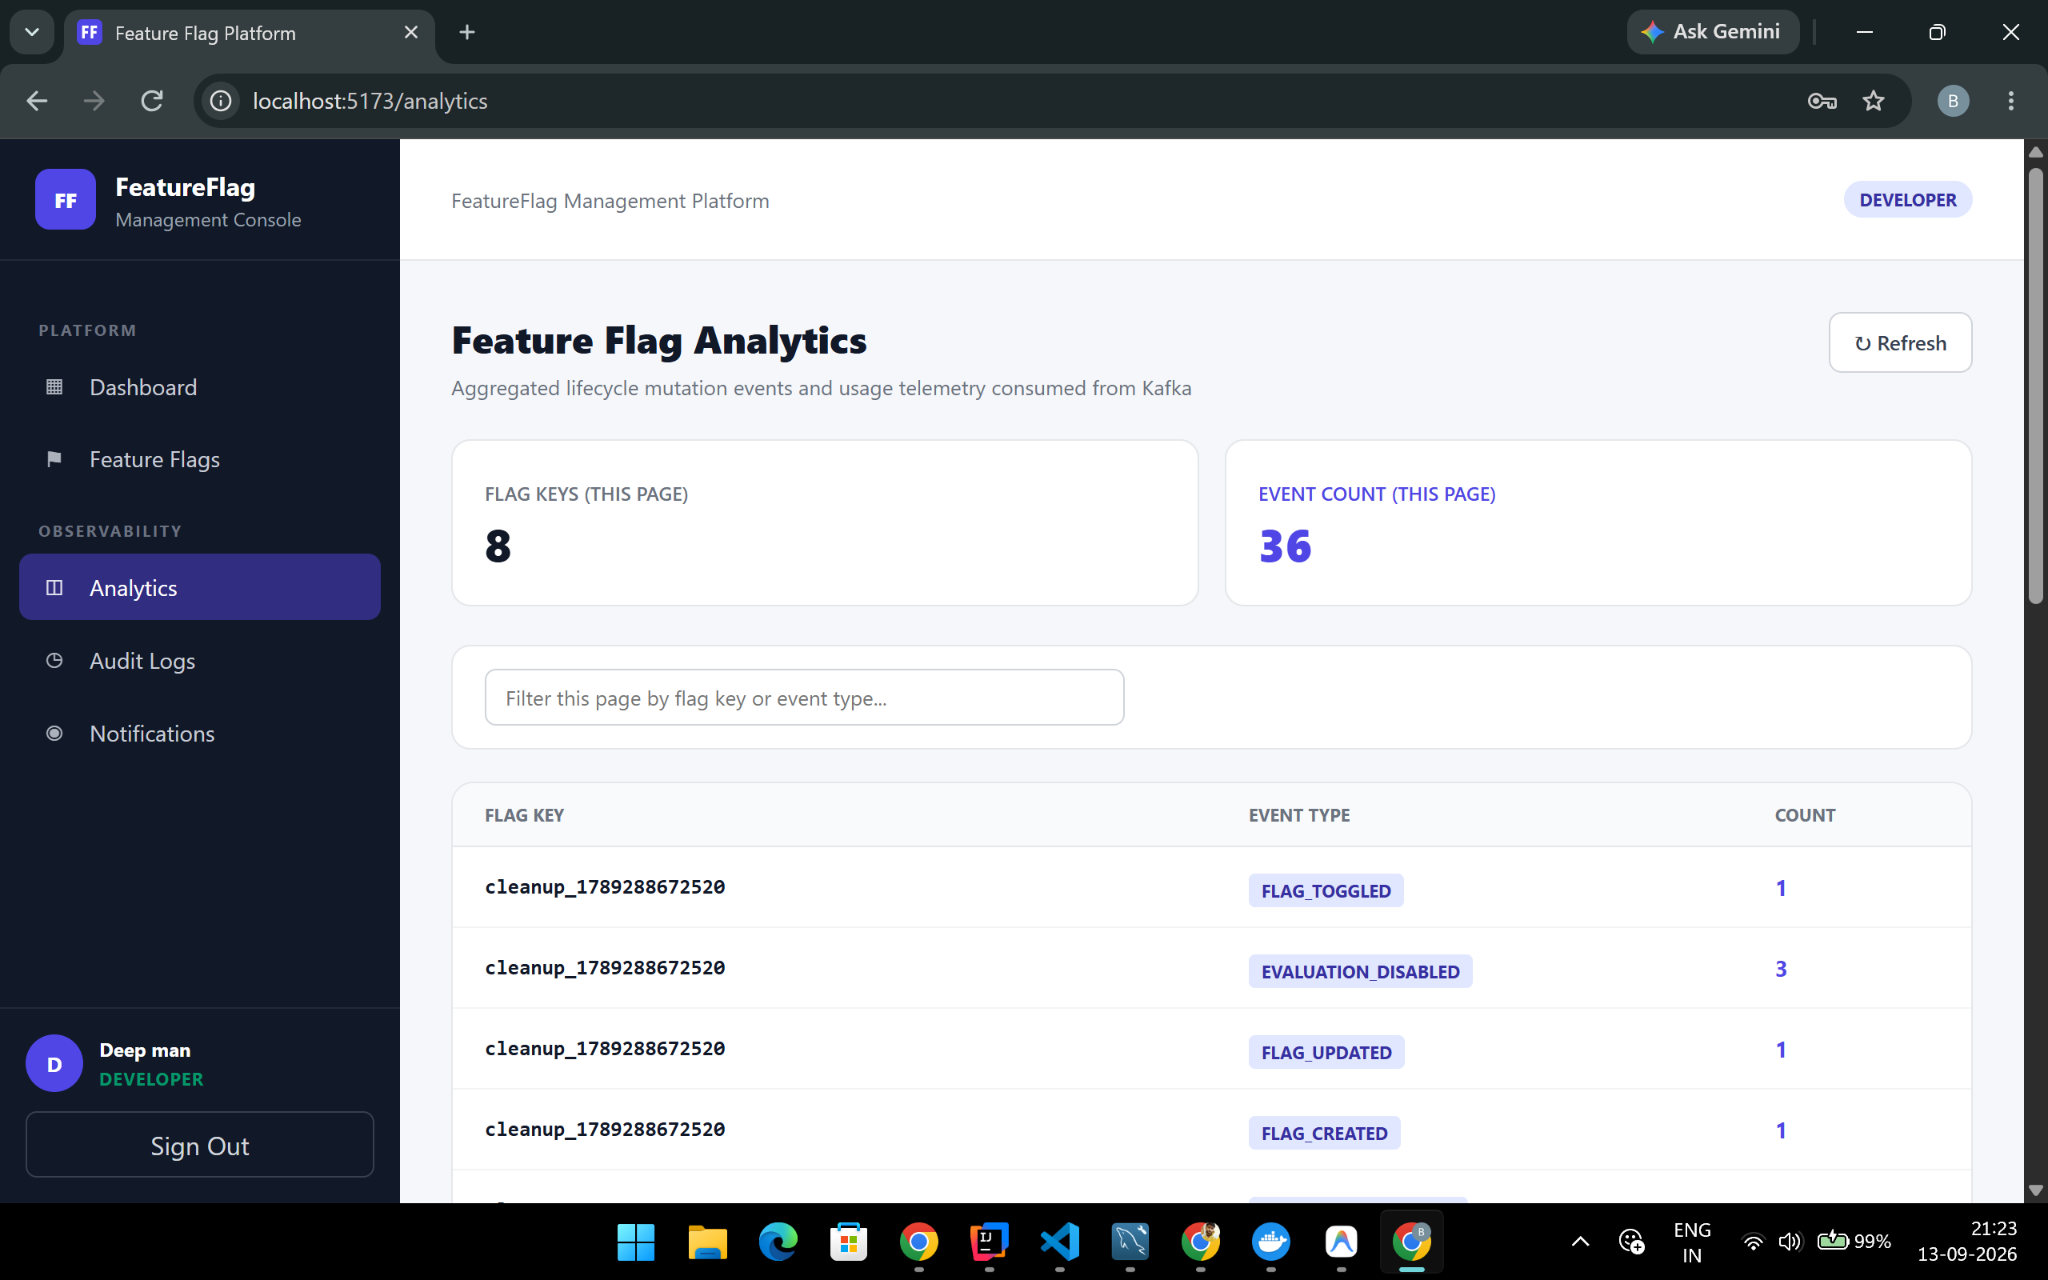
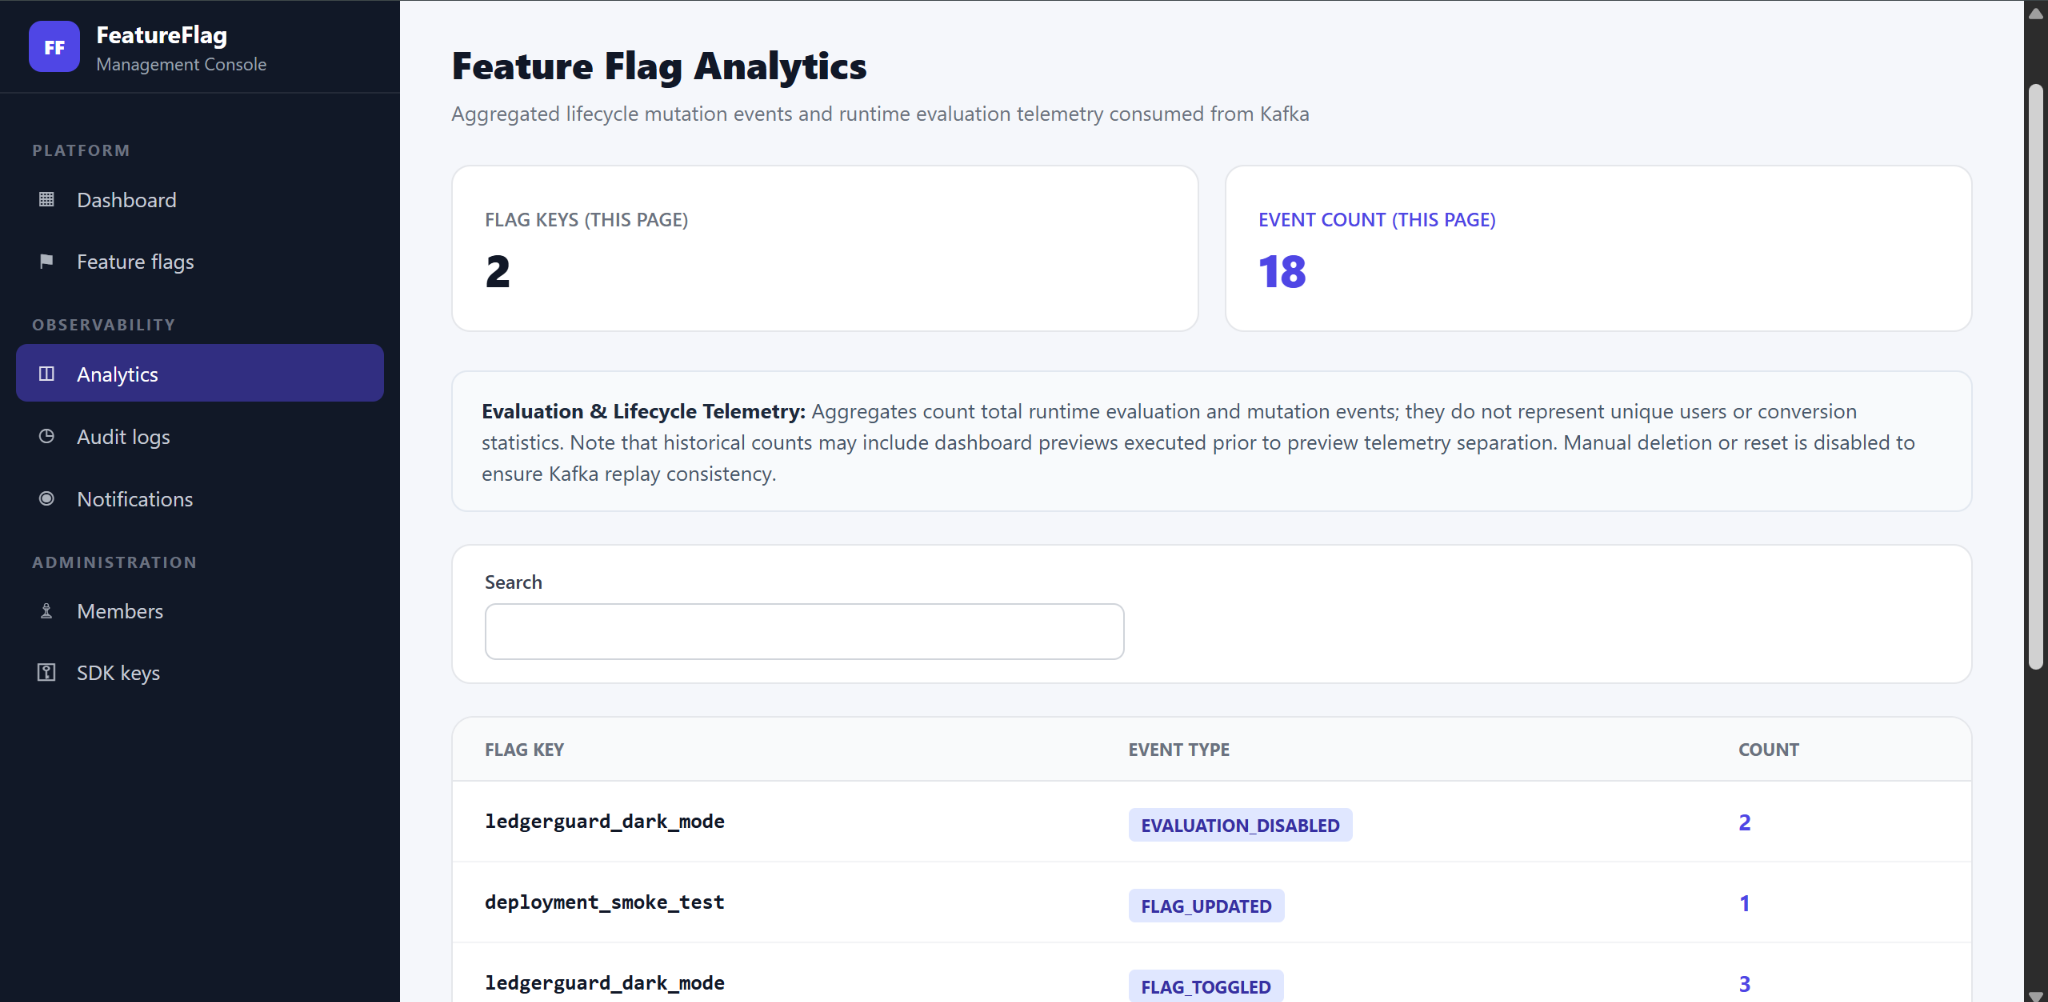
Complete screenshot gallery with analytics, audit, notifications, and SDK metadata

diff --git a/docs/SCREENSHOTS.md b/docs/SCREENSHOTS.md
@@ -46,8 +46,30 @@ The management console requires an existing account; no public self-registration
 
 ![Login screen with empty credentials](images/login.png)
 
-## Remaining refreshes
+## SDK-key administration
 
-The SDK-key metadata listing, Analytics, Audit, and Notifications pages still need current captures. Previous images for these views remain in the repository but are not presented here as refreshed screenshots.
+Environment-bound metadata lists active and revoked credentials, creation details, and revocation controls. Only display prefixes are shown; the raw credential is revealed once at creation and is absent from this capture.
 
-For new captures, wait for loading to finish, use consistent browser zoom, and cover personal email addresses. Do not capture raw SDK keys, tokens, passwords, invitation URLs, or browser developer tools containing credentials.
+![SDK metadata listing with PROD active and DEV revoked keys](images/sdk-keys.png)
+
+## Analytics
+
+Lifecycle mutations and runtime evaluation telemetry are aggregated by event type. These are event counts, not unique users or conversion statistics. Historical aggregates can include previews made before telemetry separation; current Preview does not emit runtime telemetry.
+
+![Analytics with event counts and telemetry semantics notice](images/analytics.png)
+
+## Audit history
+
+The current implementation records feature-flag lifecycle events such as creation, updates, and state changes. Despite the broader subtitle visible in this capture, it is not a complete organization-wide administrative or security audit log, nor a tamper-proof external ledger.
+
+![Chronological feature flag lifecycle events](images/audit-logs.png)
+
+## Notifications
+
+Dispatch history explains PENDING, FAILED, and SENT. SENT indicates SMTP provider acceptance and does not guarantee inbox receipt. Displayed recipient addresses are test data, as confirmed by the project author.
+
+![Notification dispatch history with provider acceptance notice](images/notifications.png)
+
+## Capture notes
+
+All eleven views in this gallery were refreshed with author-supplied captures on 11 October 2026. Some views are viewport captures and require scrolling in the application to see additional rows or controls. The supplied test account addresses are retained with the author's authorization. No raw SDK credentials, passwords, or invitation tokens are shown.

diff --git a/README.md b/README.md
@@ -200,7 +200,7 @@ See the [security and credential details](docs/ENGINEERING.md#security-model).
 
 ## Application walkthrough
 
-Dashboard, flags, members, creation dialogs, invitation, and login screenshots were refreshed from the application on 11 October 2026. They show sample deployment state, not benchmark results. See the [screenshot gallery](docs/SCREENSHOTS.md) for captures and refresh status.
+All eleven application screenshots in the gallery were refreshed from the application on 11 October 2026. They show sample deployment state, not benchmark results. See the [screenshot gallery](docs/SCREENSHOTS.md) for captures and refresh status.
 
 | Screen | What to inspect |
 |---|---|
@@ -224,6 +224,26 @@ Dashboard, flags, members, creation dialogs, invitation, and login screenshots w
 ![Member invitation dialog](docs/images/invite-member.png)
 
 ![Environment-bound SDK key creation](docs/images/create-sdk-key.png)
+
+![SDK key metadata with active and revoked credentials](docs/images/sdk-keys.png)
+
+</details>
+
+<details>
+<summary>Analytics, audit history, and notification dispatch</summary>
+
+![Aggregated lifecycle and evaluation events](docs/images/analytics.png)
+
+![Feature flag lifecycle audit history](docs/images/audit-logs.png)
+
+![Notification dispatch history and provider acceptance semantics](docs/images/notifications.png)
+
+</details>
+
+<details>
+<summary>Sign-in screen</summary>
+
+![Management console sign-in](docs/images/login.png)
 
 </details>
 
